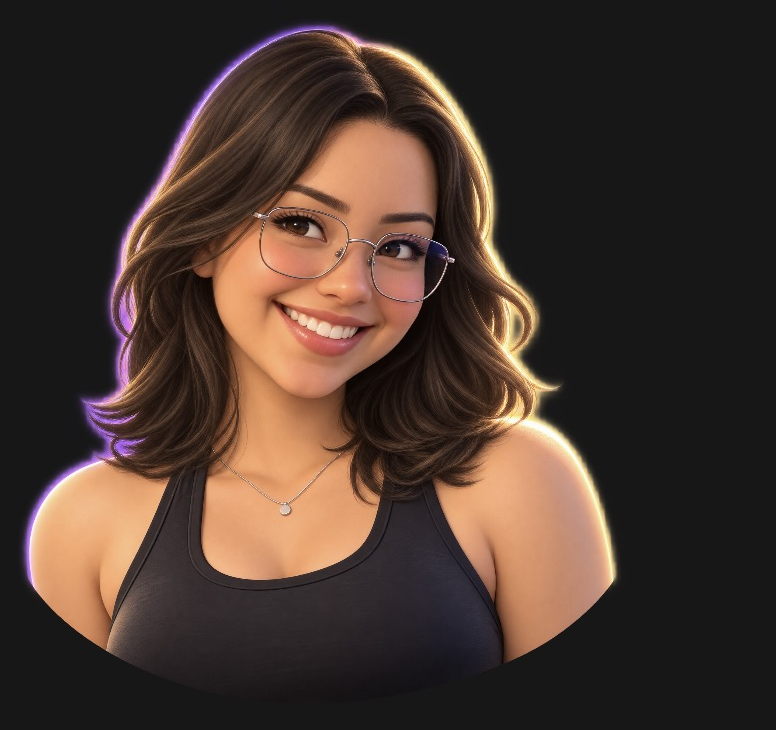
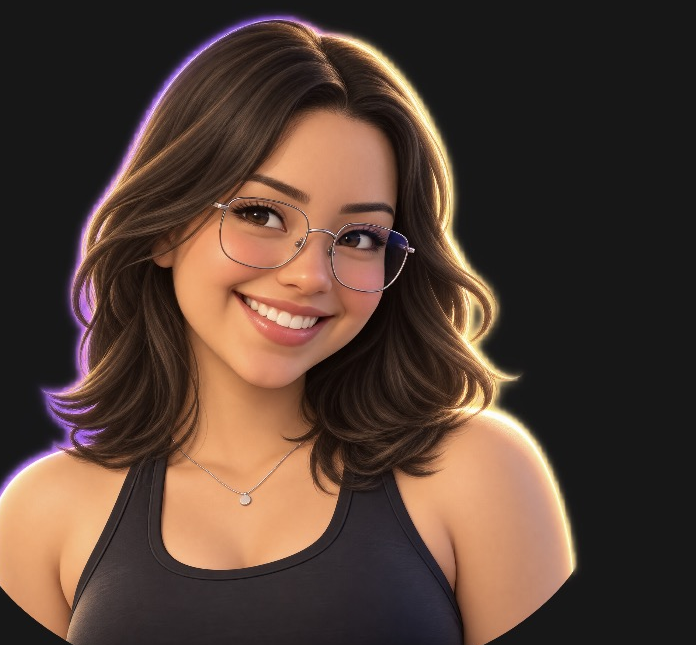
Add procedural motion to tribute assistant

diff --git a/style.css b/style.css
@@ -1363,3 +1363,91 @@ body.light-theme .bottom-nav .nav-btn:not(.active) .nav-icon {
 @media (prefers-reduced-motion: reduce) {
   .coach-avatar-portrait, .coach-avatar-image, .coach-blink, .coach-thought-glow { animation: none !important; }
 }
+
+
+/* Assistente viva — camada procedural sobre o mesmo retrato */
+.coach-avatar {
+  width: 94px;
+  height: 94px;
+  flex-basis: 94px;
+  border-radius: 27px;
+  box-shadow: 0 14px 30px rgba(105,87,220,.42), 0 0 0 1px rgba(255,209,102,.24), inset 0 0 0 1px rgba(255,255,255,.22);
+}
+.coach-avatar-portrait {
+  border-radius: 23px;
+  transform-origin: 50% 76%;
+  will-change: transform;
+}
+.coach-avatar-image {
+  transform: translate3d(0, var(--head-y, 0px), 0) rotate(var(--head-x, 0deg)) scale(calc(1.055 * var(--breath, 1)));
+  transform-origin: 50% 72%;
+  will-change: transform, filter;
+}
+.coach-avatar[data-state="thinking"] .coach-avatar-image {
+  filter: saturate(1.02) contrast(1.05) brightness(.97);
+}
+.coach-avatar[data-state="speaking"] .coach-avatar-image {
+  filter: saturate(1.08) contrast(1.03) brightness(1.015);
+}
+.coach-avatar[data-state="celebrate"] .coach-avatar-image {
+  filter: saturate(1.15) contrast(1.04) brightness(1.04);
+}
+.coach-gaze {
+  position: absolute;
+  z-index: 3;
+  top: 40.5%;
+  width: 4px;
+  height: 3px;
+  border-radius: 50%;
+  background: rgba(43, 27, 40, .9);
+  box-shadow: 0 0 2px rgba(255,255,255,.55);
+  transform: translate3d(var(--gaze-x, 0px), var(--gaze-y, 0px), 0);
+  transition: transform .14s cubic-bezier(.2,.8,.2,1);
+  pointer-events: none;
+}
+.coach-gaze-left { left: 37.5%; }
+.coach-gaze-right { left: 59%; }
+.coach-avatar.is-blinking .coach-gaze {
+  opacity: 0;
+}
+.coach-avatar.is-blinking .coach-blink {
+  opacity: .95;
+  transform: scaleY(1);
+}
+.coach-blink {
+  top: 40%;
+  width: 18%;
+  border-top-width: 2.4px;
+  border-top-color: rgba(82, 43, 45, .9);
+  transition: opacity .04s ease, transform .06s ease;
+}
+.coach-blink-left { left: 31%; }
+.coach-blink-right { left: 53%; }
+.coach-avatar::before {
+  inset: -8px;
+  border-radius: 32px;
+  box-shadow: 0 0 0 8px rgba(139,124,255,.06), 0 0 28px rgba(139,124,255,.2);
+}
+.coach-avatar[data-state="thinking"]::before {
+  border-color: rgba(190,178,255,.85);
+  box-shadow: 0 0 0 8px rgba(139,124,255,.1), 0 0 34px rgba(139,124,255,.4);
+}
+.coach-avatar[data-state="greeting"] .coach-avatar-portrait {
+  animation: coach-greeting-portrait 1.8s cubic-bezier(.2,.8,.2,1) both;
+}
+.coach-avatar[data-state="thinking"] .coach-avatar-portrait {
+  animation: coach-thinking-portrait 1.15s ease-in-out infinite;
+}
+.coach-avatar[data-state="speaking"] .coach-avatar-portrait {
+  animation: coach-speaking-portrait .8s ease-in-out infinite;
+}
+.coach-avatar[data-state="celebrate"] .coach-avatar-portrait {
+  animation: coach-celebrate-portrait .65s cubic-bezier(.2,.8,.2,1) 3;
+}
+@media (max-width: 420px) {
+  .coach-avatar { width: 84px; height: 84px; flex-basis: 84px; }
+}
+@media (prefers-reduced-motion: reduce) {
+  .coach-gaze { transition: none; }
+  .coach-avatar-image { transform: none; }
+}

diff --git a/app.js b/app.js
@@ -26,9 +26,10 @@ renderCurrentWorkout();
 renderHistory();
 populateChartSelect();
 renderCustomExercisesInSelect();
-expandExerciseLibrary();
-initCoach();
-setupChristmasAudio();
+	expandExerciseLibrary();
+	initCoach();
+	initCoachMotion();
+	setupChristmasAudio();
 };
 
 function setupChristmasAudio() {
@@ -1021,6 +1022,56 @@ function setCoachAvatarState(nextState = 'idle', duration = 0) {
       avatar.dataset.state = 'idle';
     }, duration);
   }
+}
+
+// Movimento 2D procedural: mantém o retrato da homenagem, mas dá vida ao rosto
+// com respiração, inclinação de cabeça, olhar, piscadas e resposta ao toque/ponteiro.
+function initCoachMotion() {
+  const avatar = document.querySelector('.coach-avatar');
+  if (!avatar || avatar.dataset.motionReady === 'true') return;
+  avatar.dataset.motionReady = 'true';
+  const gaze = { x: 0, y: 0, targetX: 0, targetY: 0 };
+  let pointerActive = false;
+  let nextBlink = performance.now() + 2600;
+  let blinkUntil = 0;
+  const portrait = avatar.querySelector('.coach-avatar-portrait');
+
+  const setTarget = (event) => {
+    const rect = avatar.getBoundingClientRect();
+    gaze.targetX = Math.max(-1, Math.min(1, ((event.clientX - rect.left) / rect.width - .5) * 2));
+    gaze.targetY = Math.max(-1, Math.min(1, ((event.clientY - rect.top) / rect.height - .5) * 2));
+    pointerActive = true;
+  };
+  avatar.addEventListener('pointermove', setTarget, { passive: true });
+  avatar.addEventListener('pointerleave', () => { pointerActive = false; }, { passive: true });
+  avatar.addEventListener('touchstart', setTarget, { passive: true });
+
+  const loop = (now) => {
+    const stateName = avatar.dataset.state || 'idle';
+    const thinking = stateName === 'thinking';
+    const t = now / 1000;
+    const autoX = Math.sin(t * (thinking ? .85 : .55)) * (thinking ? .42 : .2) + Math.sin(t * .23) * .08;
+    const autoY = Math.cos(t * .47) * .16;
+    const targetX = pointerActive ? gaze.targetX : autoX;
+    const targetY = pointerActive ? gaze.targetY : autoY;
+    gaze.x += (targetX - gaze.x) * .075;
+    gaze.y += (targetY - gaze.y) * .075;
+    const headX = Math.sin(t * .62) * (thinking ? 2.8 : 1.2) + gaze.x * .9;
+    const headY = Math.cos(t * .48) * (thinking ? 1.8 : .7);
+    avatar.style.setProperty('--head-x', `${headX.toFixed(2)}deg`);
+    avatar.style.setProperty('--head-y', `${headY.toFixed(2)}px`);
+    avatar.style.setProperty('--gaze-x', `${(gaze.x * 1.65).toFixed(2)}px`);
+    avatar.style.setProperty('--gaze-y', `${(gaze.y * 1.1).toFixed(2)}px`);
+
+    if (now >= nextBlink) {
+      blinkUntil = now + 135;
+      nextBlink = now + 2800 + Math.random() * 3300;
+    }
+    avatar.classList.toggle('is-blinking', now < blinkUntil);
+    if (portrait) portrait.style.setProperty('--breath', `${(1 + Math.sin(t * 1.35) * .012).toFixed(3)}`);
+    window.requestAnimationFrame(loop);
+  };
+  window.requestAnimationFrame(loop);
 }
 
 function coachNormalize(value) {

diff --git a/index.html b/index.html
@@ -67,6 +67,8 @@ try {
 <div class="coach-avatar" aria-hidden="true" data-state="idle">
   <div class="coach-avatar-portrait">
     <img class="coach-avatar-image" src="assets/yara-assistant.png" alt="" draggable="false">
+    <span class="coach-gaze coach-gaze-left" aria-hidden="true"></span>
+    <span class="coach-gaze coach-gaze-right" aria-hidden="true"></span>
     <span class="coach-blink coach-blink-left" aria-hidden="true"></span>
     <span class="coach-blink coach-blink-right" aria-hidden="true"></span>
     <span class="coach-thought-glow" aria-hidden="true"></span>
